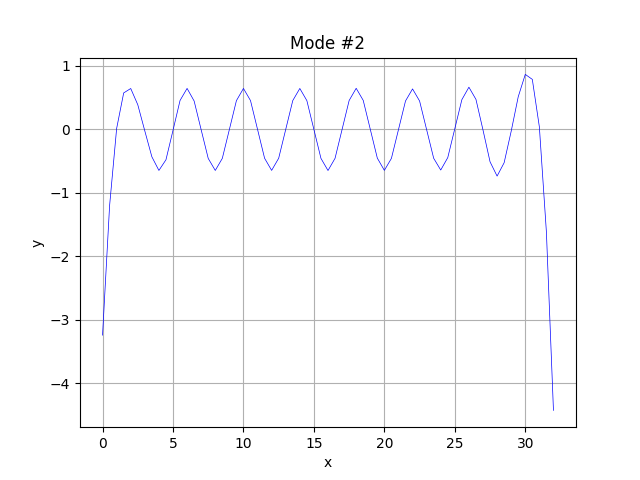
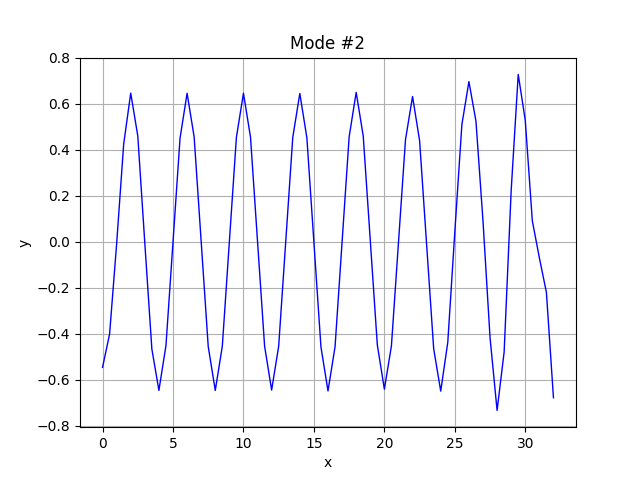
commit

diff --git a/display/main_window.py b/display/main_window.py
@@ -1,5 +1,6 @@
 from display import chart_save
-from emd_algorithm.extremum_localization import get_maximum, get_minimum
+from emd_algorithm.checks import check_stop_algorithm, check_stop_one_iteration
+from emd_algorithm.extremum_localization import get_maximum, get_minimum, get_maximum_to_inter, get_minimum_to_inter
 from emd_algorithm.interpolation import interpolation, get_medium, get_diff
 
 import tkinter as tk
@@ -13,6 +14,7 @@ class SignalPlotter:
     initialized = False
     x, y = 0, 0
     step = 0
+    prev_y = None
 
     image_path = "signal_plot.png"
     mods_image_path = "mods.png"
@@ -23,10 +25,10 @@ class SignalPlotter:
     signal = None
 
     counter = 0
-    max_iterations = 6
 
     modes_counter = 0
-    max_modes = 3
+
+    eps = 0.1
 
     @staticmethod
     def choose_file():
@@ -35,10 +37,10 @@ class SignalPlotter:
 
         if filename:
             data = np.loadtxt(filename)
+            SignalPlotter.prev_y = None
             SignalPlotter.x = data[:, 0]
             SignalPlotter.y = data[:, 1]
             SignalPlotter.modes_counter = 0
-            SignalPlotter.max_iterations = 0
             # saving initial signal
             SignalPlotter.initial_signal = [SignalPlotter.x, SignalPlotter.y]
             SignalPlotter.signal = [SignalPlotter.x, SignalPlotter.y]
@@ -58,7 +60,7 @@ class SignalPlotter:
         canvas.image = tk_img
 
     @staticmethod
-    def plot_signal(canvas, max_modes_entry, max_iterations_entry):
+    def plot_signal(canvas):
         try:
             if SignalPlotter.is_finished:
                 messagebox.showinfo("Finished", "Finished")
@@ -66,8 +68,6 @@ class SignalPlotter:
             if not SignalPlotter.initialized:
                 messagebox.showerror("Error", "Choose file!")
                 return
-            SignalPlotter.max_modes = int(max_modes_entry.get())
-            SignalPlotter.max_iterations = int(max_iterations_entry.get())
 
             # Showing current step and extremums
             chart_save.plot_init(f"Step {SignalPlotter.step}")
@@ -76,20 +76,22 @@ class SignalPlotter:
             x_min, y_min = get_minimum(SignalPlotter.x, SignalPlotter.y)
             chart_save.plot_points(x_max, y_max, "red", "max_points")
             chart_save.plot_points(x_min, y_min, "green", "min_points")
-            max_interpolation = interpolation(SignalPlotter.x, x_max, y_max)
-            min_interpolation = interpolation(SignalPlotter.x, x_min, y_min)
+            x_max_to_inter, y_max_to_inter = get_maximum_to_inter(SignalPlotter.x, SignalPlotter.y)
+            x_min_to_inter, y_min_to_inter = get_minimum_to_inter(SignalPlotter.x, SignalPlotter.y)
+            max_interpolation = interpolation(SignalPlotter.x, x_max_to_inter, y_max_to_inter)
+            min_interpolation = interpolation(SignalPlotter.x, x_min_to_inter, y_min_to_inter)
             medium = get_medium(*min_interpolation, *max_interpolation)
             chart_save.plot_chart(*max_interpolation, "orange", "max_interpolation",
-                                  dashed=True)
-            chart_save.plot_chart(*min_interpolation, "yellow", "min_interpolation",
-                                  dashed=True)
+                                  dashed=False)
+            chart_save.plot_chart(*min_interpolation, "pink", "min_interpolation",
+                                  dashed=False)
             chart_save.plot_chart(*medium, "black", "medium", dashed=True)
             chart_save.plot_save(SignalPlotter.image_path)
             SignalPlotter.add_image_to_canvas(canvas, SignalPlotter.image_path)
+            SignalPlotter.y_prev = SignalPlotter.y
             SignalPlotter.y = get_diff(SignalPlotter.y, medium[1])
             SignalPlotter.counter += 1
-            if SignalPlotter.counter == SignalPlotter.max_iterations:
-                SignalPlotter.modes_counter += 1
+            if SignalPlotter.counter > 1 and check_stop_one_iteration(SignalPlotter.y, SignalPlotter.y_prev):
                 SignalPlotter.counter = 0
                 SignalPlotter.step += 1
                 SignalPlotter.mods.append((SignalPlotter.x, SignalPlotter.y))
@@ -97,21 +99,21 @@ class SignalPlotter:
                 r = get_diff(SignalPlotter.signal[1], SignalPlotter.y)
                 SignalPlotter.signal[1] = r
                 SignalPlotter.y = r
-                if SignalPlotter.modes_counter == SignalPlotter.max_modes:
+                if check_stop_algorithm(SignalPlotter.y, SignalPlotter.eps, SignalPlotter.initial_signal[1]):
                     SignalPlotter.is_finished = True
-                    #Showing result
+                    # Showing result
                     chart_save.plot_init("Result")
                     for mod in SignalPlotter.mods:
                         chart_save.plot_chart(mod[0], mod[1], "blue", "")
                     chart_save.plot_chart(SignalPlotter.initial_signal[0], SignalPlotter.initial_signal[1],
                                           "black", "")
-                    chart_save.plot_save(SignalPlotter.mods_image_path, legend=False)
+                    chart_save.plot_save(SignalPlotter.mods_image_path)
                     SignalPlotter.add_image_to_canvas(canvas, SignalPlotter.mods_image_path)
-                    #Saving mods and signal to files
+                    # Saving mods and signal to files
                     for index in range(len(SignalPlotter.mods)):
-                        chart_save.plot_init(f"Mode #{index+1}")
+                        chart_save.plot_init(f"Mode #{index + 1}")
                         chart_save.plot_chart(SignalPlotter.mods[index][0], SignalPlotter.mods[index][1], "blue", "")
-                        chart_save.plot_save(f"Mode #{index+1}.png", legend=False)
+                        chart_save.plot_save(f"Mode #{index + 1}.png")
                     chart_save.plot_init("Input signal")
                     chart_save.plot_chart(SignalPlotter.initial_signal[0], SignalPlotter.initial_signal[1],
                                           "black", "")
@@ -132,24 +134,12 @@ def main():
 
     btn_choose_file = tk.Button(root, text="Choose File", command=SignalPlotter.choose_file)
     btn_plot = tk.Button(root, text="Make step", command=lambda: SignalPlotter.plot_signal(
-        canvas, max_modes_entry, max_iterations_entry
+        canvas
     ))
-
-    max_modes_label = tk.Label(root, text="Max Modes:")
-    max_modes_entry = tk.Entry(root)
-    max_modes_entry.insert(0, "3")
-
-    max_iterations_label = tk.Label(root, text="Max Iterations:")
-    max_iterations_entry = tk.Entry(root)
-    max_iterations_entry.insert(0, "6")
 
     btn_close = tk.Button(root, text="Close", command=root.destroy)
 
     btn_choose_file.grid(row=0, columnspan=2)
-    max_modes_label.grid(row=1, column=0)
-    max_modes_entry.grid(row=1, column=1)
-    max_iterations_label.grid(row=2, column=0)
-    max_iterations_entry.grid(row=2, column=1)
     btn_plot.grid(row=7, columnspan=2)
     btn_close.grid(row=9, columnspan=2)
 

diff --git a/emd_algorithm/extremum_localization.py b/emd_algorithm/extremum_localization.py
@@ -14,3 +14,33 @@ def get_minimum(x, y):
     local_min_x = x[local_min_indices]
     local_min_y = y[local_min_indices]
     return local_min_x, local_min_y
+
+
+def get_maximum_to_inter(x, y):
+    # Создаем зеркальные отражения сигнала
+    y_left_reflected = np.concatenate((np.flip(y), y))
+    y_right_reflected = y
+
+    # Создаем соответствующие массивы x для зеркальных отражений
+    x_left_reflected = -np.flip(x)
+    x_right_reflected = np.concatenate((x, x[-1] + (x[-1] - x[-2]) * np.arange(1, len(y) + 1)))
+    new_x = np.concatenate((x_left_reflected, x_right_reflected))
+    new_y = np.concatenate((y_left_reflected, y_right_reflected))
+    local_max_indices = argrelextrema(new_y, np.greater)
+
+    return new_x[local_max_indices], new_y[local_max_indices]
+
+
+def get_minimum_to_inter(x, y):
+    # Создаем зеркальные отражения сигнала
+    y_left_reflected = np.concatenate((np.flip(y), y))
+    y_right_reflected = y
+
+    # Создаем соответствующие массивы x для зеркальных отражений
+    x_left_reflected = -np.flip(x)
+    x_right_reflected = np.concatenate((x, x[-1] + (x[-1] - x[-2]) * np.arange(1, len(y) + 1)))
+    new_x = np.concatenate((x_left_reflected, x_right_reflected))
+    new_y = np.concatenate((y_left_reflected, y_right_reflected))
+    local_max_indices = argrelextrema(new_y, np.less)
+
+    return new_x[local_max_indices], new_y[local_max_indices]

diff --git a/emd_algorithm/checks.py b/emd_algorithm/checks.py
@@ -1,0 +1,23 @@
+# y - current ordinates
+# y_input - input ordinates
+def check_stop_algorithm(y, eps, y_input):
+    if len(y_input) == 0:
+        return True
+    y_max = y_input[0]
+    for y_ in y_input:
+        if y_ > y_max:
+            y_max = y_
+    for y_ in y:
+        if y_ >= eps * y_max:
+            return False
+    return True
+
+
+def check_stop_one_iteration(y, y_prev):
+    sum = 0
+    try:
+        for i in range(len(y)):
+            sum += (y[i] - y_prev[i]) ** 2 / y_prev[i] ** 2
+        return sum <= 10
+    except Exception:
+        return True

diff --git a/display/chart_save.py b/display/chart_save.py
@@ -9,7 +9,7 @@ def plot_init(name):
     plt.ylabel('y')
 
 
-def plot_chart(x, y, color, label, linewidth=0.5, dashed=False):
+def plot_chart(x, y, color, label, linewidth=1, dashed=False):
     line_style = '--' if dashed else '-'
     plt.plot(x, y, color=color, linestyle=line_style, label=label, linewidth=linewidth)
 
@@ -18,7 +18,5 @@ def plot_points(x, y, color, label, s=2):
     plt.scatter(x, y, color=color, label=label, s=s)
 
 
-def plot_save(file_name, legend=True):
-    if legend:
-        plt.legend()
+def plot_save(file_name):
     plt.savefig(file_name)

diff --git a/emd_algorithm/interpolation.py b/emd_algorithm/interpolation.py
@@ -19,3 +19,6 @@ def get_medium(x_1, y_1, x_2, y_2):
 def get_diff(y_1, y_2):
     diff_y = np.array([y_1[i] - y_2[i] for i in range(len(y_1))])
     return diff_y
+
+
+
